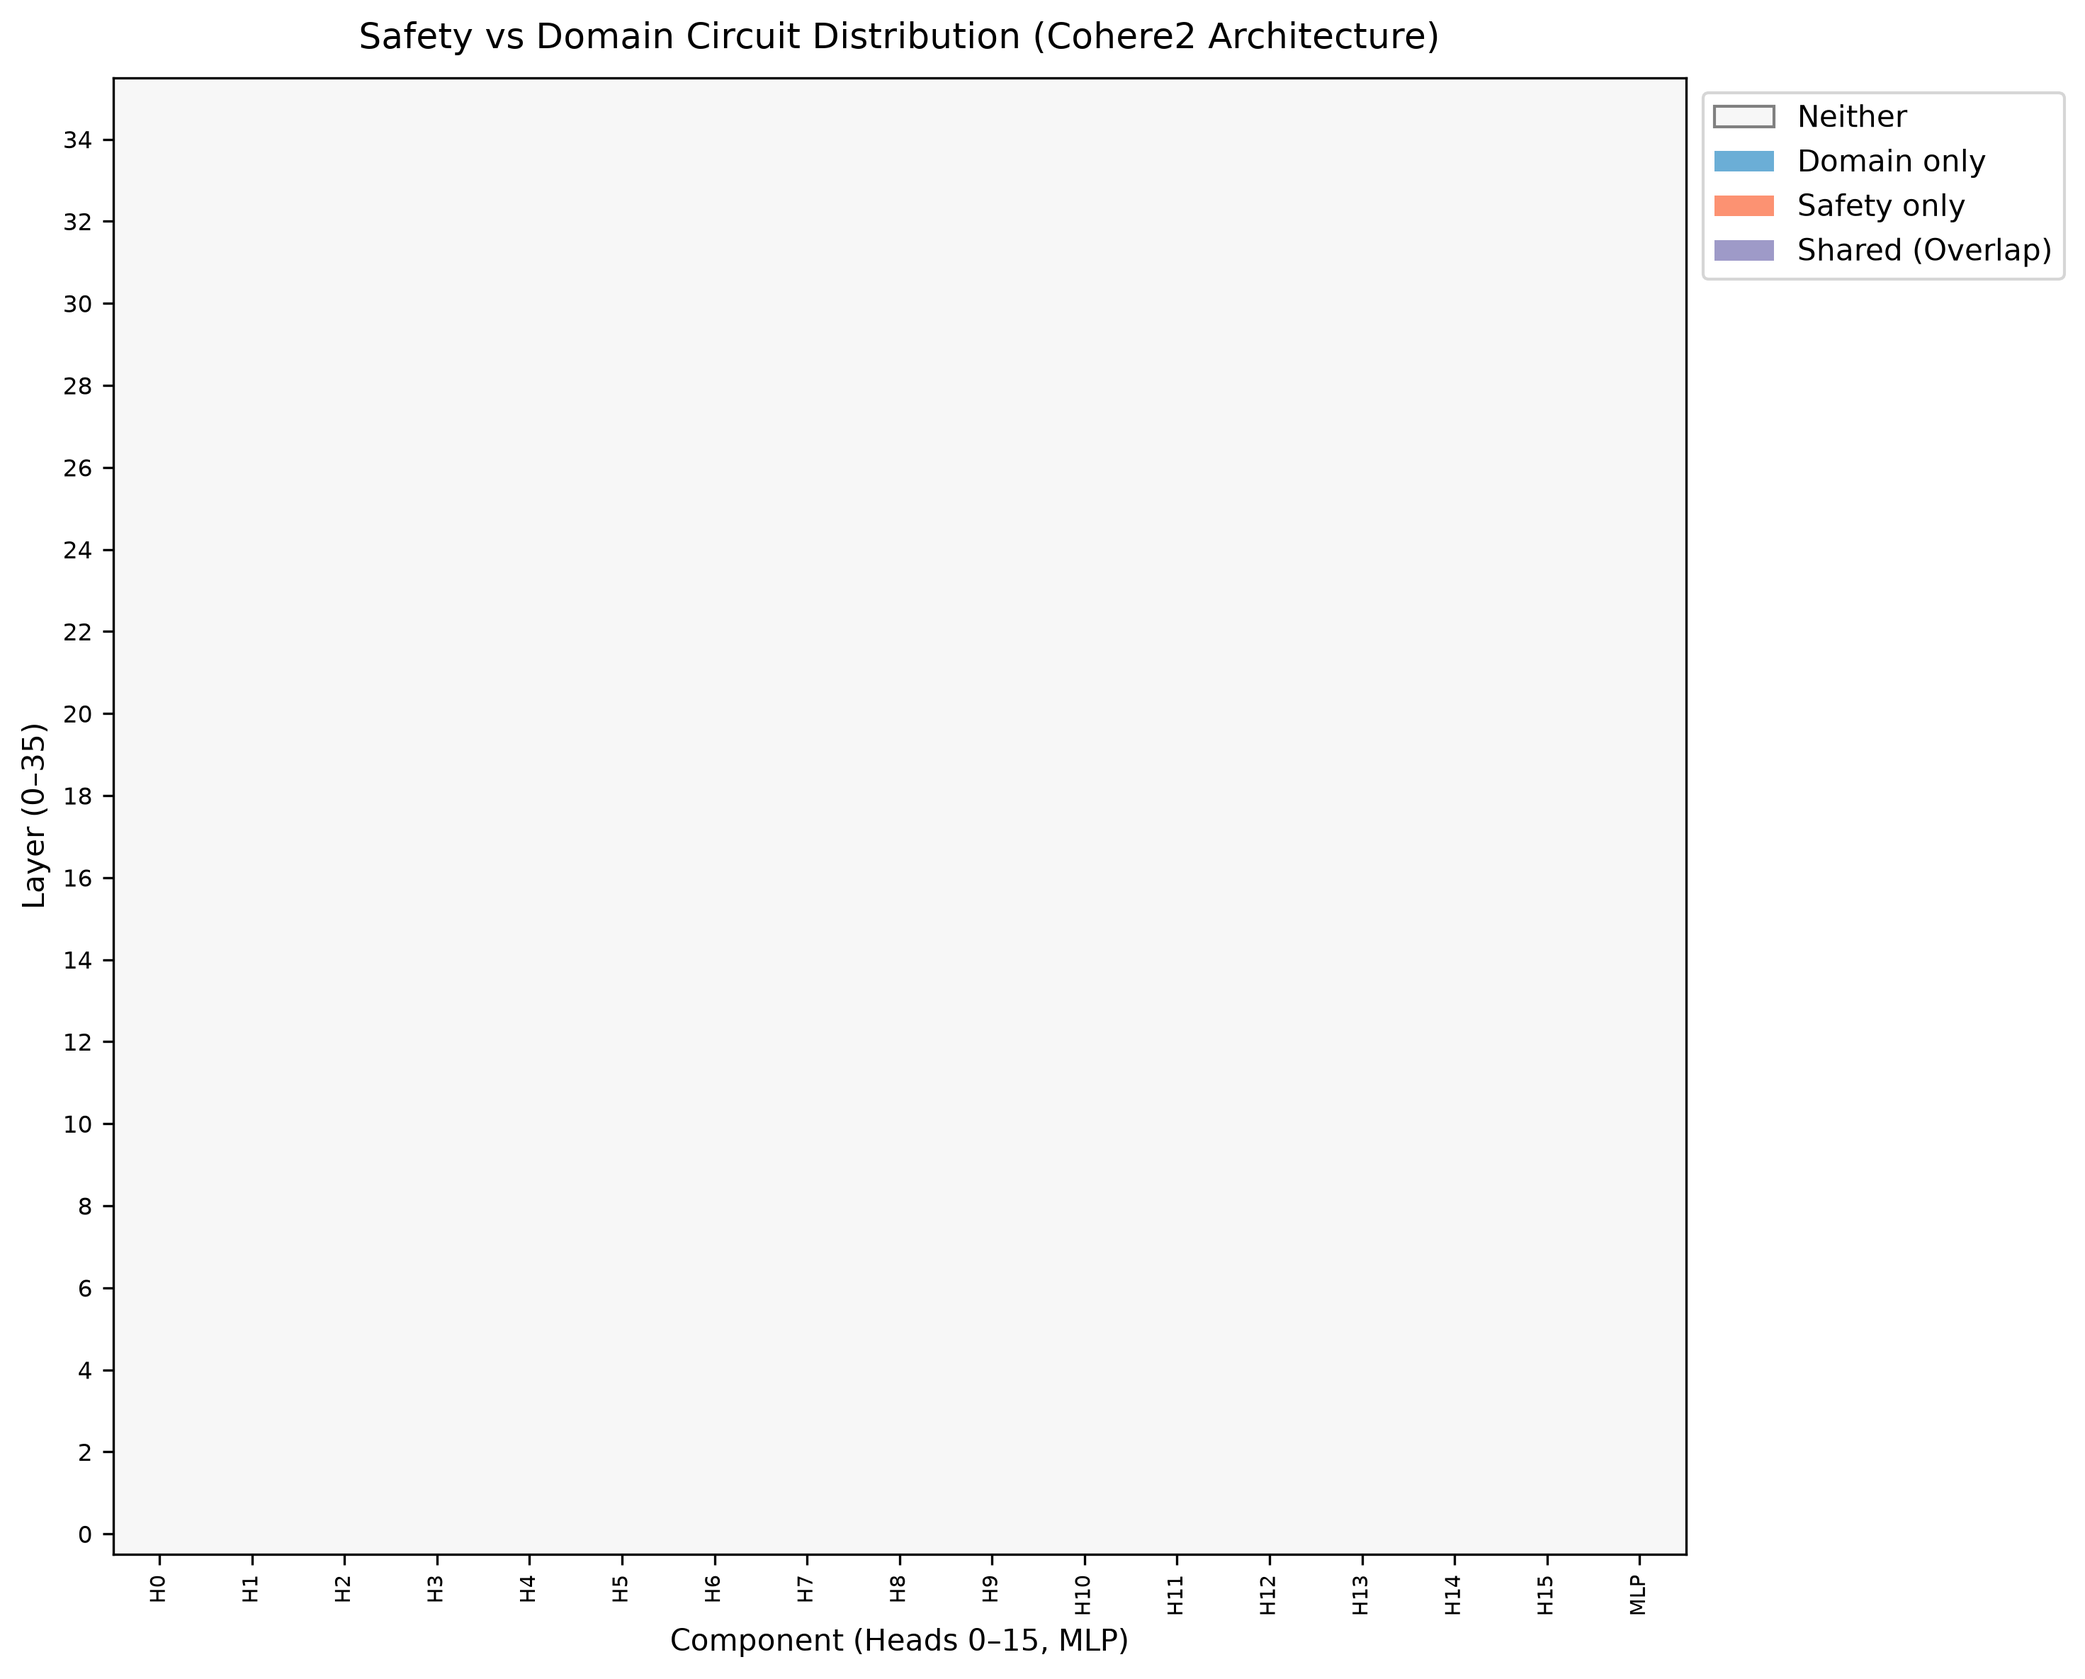
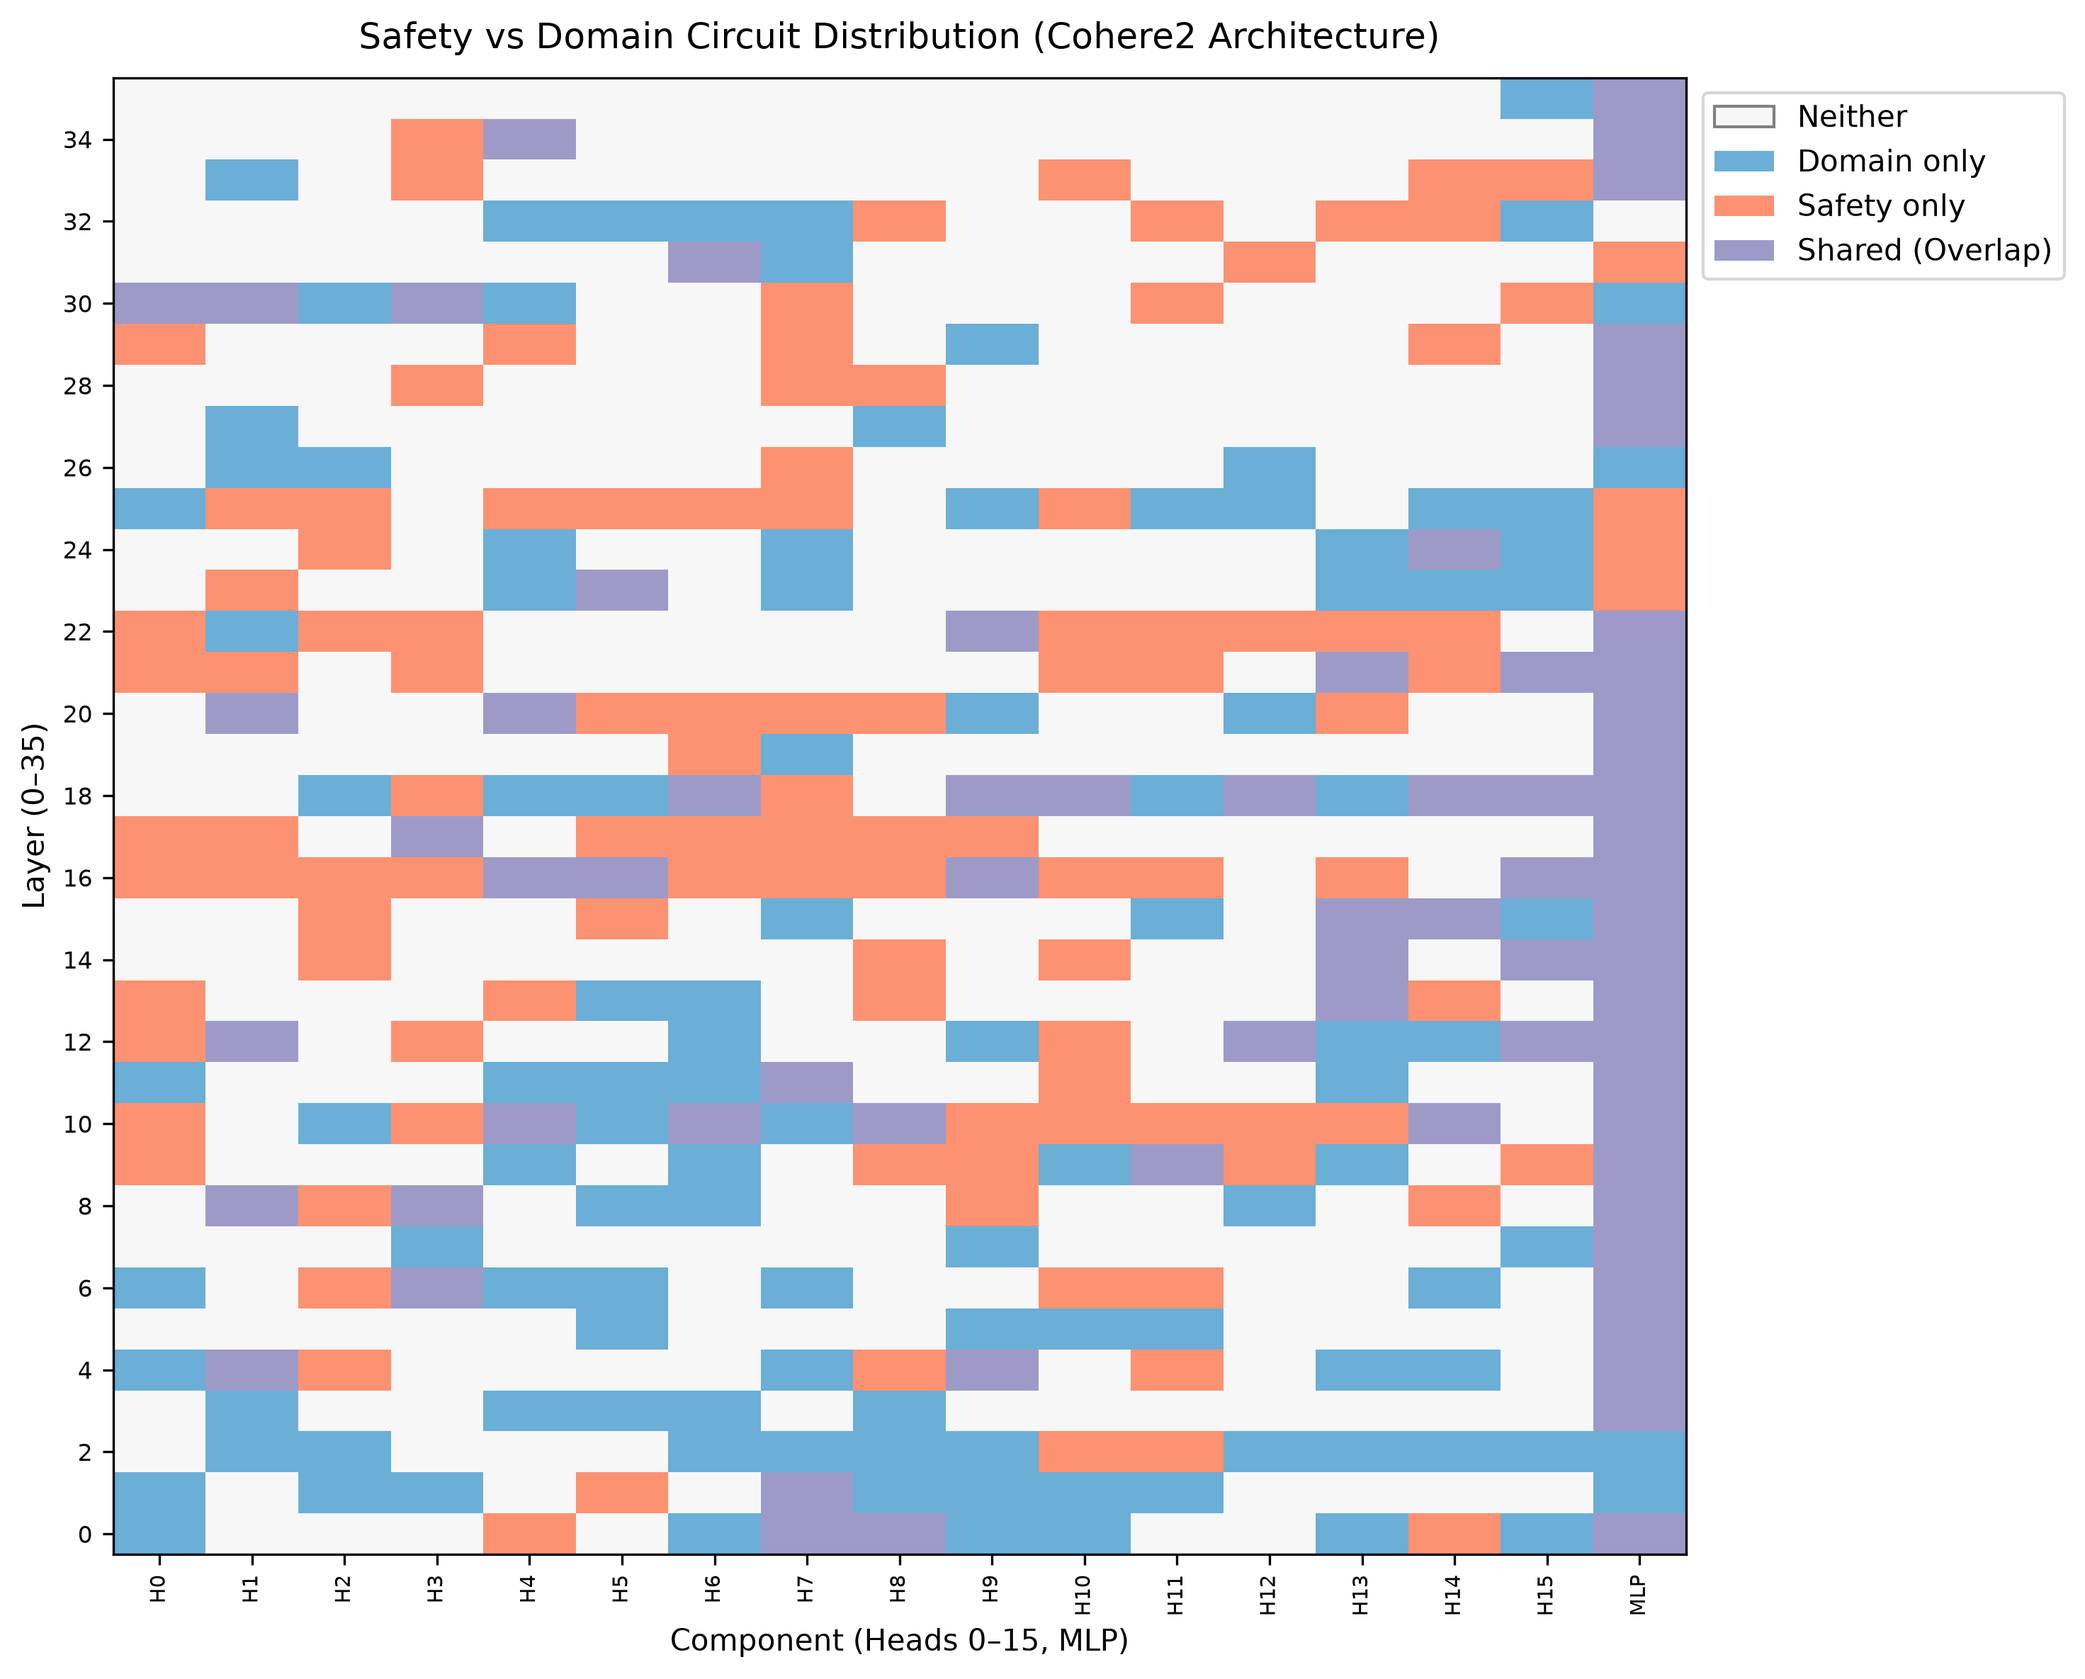
Fix empty overlap heatmap: plot preregistered membership, not raw attribution scores
The S9 heatmap consumed raw EAP-IG scores.json and treated score > 0 as
circuit membership. Attribution scores are positive for ALL 612 components,
so the membership matrix was constant (all 'shared') and matplotlib rendered
the constant imshow as a single flat colour - an all-'Neither' empty plot
with correct axes (spotted on the live Space).

- plots.py: new pure overlap_matrix(safety_members, domain_members) helper;
  plot_overlap_heatmap now takes the preregistered selected sets (explicit
  vmin/vmax 0..3, nearest interpolation). Docstring documents why raw scores
  must never drive membership.
- pipeline.py: run_report feeds the heatmap the overlap.json selected sets
  (the same 184/184/72 the overlap table reports); raw-scores path removed.
- Regression test asserts matrix codes (safety-only/domain-only/shared/MLP).
- Bundle: PNG regenerated in place in results/s9/report-1794803399 (verified
  cell counts 72 shared / 112 safety-only / 112 domain-only / 316 neither =
  exactly the reported stats); manifest output hash refreshed; Space
  re-uploaded and byte-compared (sha256 identical). No reported number
  changed.

diff --git a/src/circuitgraft/report/plots.py b/src/circuitgraft/report/plots.py
@@ -9,8 +9,12 @@ Produces publication-quality plots:
 from __future__ import annotations
 
 import logging
+from collections.abc import Iterable
 from pathlib import Path
-from typing import Any
+from typing import TYPE_CHECKING, Any
+
+if TYPE_CHECKING:
+    import numpy as np
 
 logger = logging.getLogger(__name__)
 
@@ -120,34 +124,30 @@ def plot_pareto_frontier(
     return output_path
 
 
-def plot_overlap_heatmap(
-    safety_scores: dict[str, float],
-    domain_scores: dict[str, float],
-    output_path: str | Path,
+def overlap_matrix(
+    safety_members: Iterable[str],
+    domain_members: Iterable[str],
     n_layers: int = 36,
     n_heads: int = 16,
-) -> Path | None:
-    """Generate a layer-by-component heatmap of circuit overlap."""
-    if not _can_plot():
-        return None
+) -> np.ndarray:
+    """Build the layer × component membership matrix.
 
-    import matplotlib.pyplot as plt
+    Rows are layers ``0..n_layers-1``, columns are heads ``0..n_heads-1`` plus
+    the MLP column at index ``n_heads``. Values: 0 = neither circuit, 1 =
+    domain only, 2 = safety only, 3 = shared (overlap).
+
+    Membership must come from the **selected** component sets (the
+    preregistered top-fraction selection recorded in ``overlap.json``), never
+    from raw attribution scores: EAP-IG scores are positive for *every*
+    component in the vocabulary, so a ``score > 0`` test marks all 612 cells
+    as selected and the matrix degenerates to a constant.
+    """
     import numpy as np
 
-    output_path = Path(output_path)
-    output_path.parent.mkdir(parents=True, exist_ok=True)
-
-    # Matrix: rows = layers (0..35), cols = heads (0..15) + MLP (16)
-    # Value code: 0 = none, 1 = domain only, 2 = safety only, 3 = both (overlap)
     matrix = np.zeros((n_layers, n_heads + 1), dtype=int)
-
-    all_keys = set(safety_scores) | set(domain_scores)
-    for key in all_keys:
-        in_s = key in safety_scores and safety_scores[key] > 0
-        in_d = key in domain_scores and domain_scores[key] > 0
-        if not (in_s or in_d):
-            continue
-
+    safety = set(safety_members)
+    domain = set(domain_members)
+    for key in safety | domain:
         parts = key.split(".")
         if len(parts) != 2:
             continue
@@ -158,8 +158,7 @@ def plot_overlap_heatmap(
 
         if parts[1].startswith("H"):
             try:
-                head = int(parts[1][1:])
-                col = head
+                col = int(parts[1][1:])
             except ValueError:
                 continue
         elif parts[1] == "MLP":
@@ -168,21 +167,56 @@ def plot_overlap_heatmap(
             continue
 
         if 0 <= layer < n_layers and 0 <= col <= n_heads:
+            in_s = key in safety
+            in_d = key in domain
             if in_s and in_d:
                 matrix[layer, col] = 3
             elif in_s:
                 matrix[layer, col] = 2
             elif in_d:
                 matrix[layer, col] = 1
+    return matrix
+
+
+def plot_overlap_heatmap(
+    safety_members: Iterable[str],
+    domain_members: Iterable[str],
+    output_path: str | Path,
+    n_layers: int = 36,
+    n_heads: int = 16,
+) -> Path | None:
+    """Generate a layer-by-component heatmap of circuit overlap.
+
+    ``safety_members`` / ``domain_members`` are the *selected* component names
+    (``"L3.H9"``, ``"L0.MLP"``) from the discovery stage's preregistered
+    selection — the same sets the overlap table reports.
+    """
+    if not _can_plot():
+        return None
+
+    import matplotlib.pyplot as plt
+    from matplotlib.colors import ListedColormap
+    from matplotlib.patches import Patch
+
+    output_path = Path(output_path)
+    output_path.parent.mkdir(parents=True, exist_ok=True)
+
+    matrix = overlap_matrix(safety_members, domain_members, n_layers, n_heads)
 
     fig, ax = plt.subplots(figsize=(10, 8), dpi=300)
 
     # Custom colormap: 0: white/lightgray, 1: blue (domain), 2: red (safety), 3: purple (overlap)
-    from matplotlib.colors import ListedColormap
-
     cmap = ListedColormap(["#f7f7f7", "#6baed6", "#fc9272", "#9e9ac8"])
 
-    ax.imshow(matrix, aspect="auto", cmap=cmap, origin="lower")
+    ax.imshow(
+        matrix,
+        aspect="auto",
+        cmap=cmap,
+        origin="lower",
+        vmin=0,
+        vmax=3,
+        interpolation="nearest",
+    )
 
     ax.set_title("Safety vs Domain Circuit Distribution (Cohere2 Architecture)", fontsize=12, pad=10)
     ax.set_xlabel("Component (Heads 0–15, MLP)", fontsize=10)
@@ -196,8 +230,6 @@ def plot_overlap_heatmap(
     ax.set_yticklabels(range(0, n_layers, 2), fontsize=8)
 
     # Legend
-    from matplotlib.patches import Patch
-
     legend_elements = [
         Patch(facecolor="#f7f7f7", edgecolor="gray", label="Neither"),
         Patch(facecolor="#6baed6", label="Domain only"),

diff --git a/src/circuitgraft/report/pipeline.py b/src/circuitgraft/report/pipeline.py
@@ -21,7 +21,6 @@ from datetime import UTC, datetime
 from pathlib import Path
 from typing import Any
 
-from circuitgraft.discover.overlap import read_score_payload
 from circuitgraft.registry import (
     REPO_ROOT,
     dump_json,
@@ -159,14 +158,22 @@ def _find_overlap(
     return {}, None, None
 
 
-def _find_scores(discover_dir: Path | None) -> tuple[dict[str, float], dict[str, float]]:
-    if discover_dir is None:
-        return {}, {}
-    safety_path = discover_dir / "safety" / "scores.json"
-    domain_path = discover_dir / "domain" / "scores.json"
-    safety = read_score_payload(safety_path) if safety_path.exists() else {}
-    domain = read_score_payload(domain_path) if domain_path.exists() else {}
-    return safety, domain
+def _selected_members(
+    overlap_data: dict[str, Any],
+) -> tuple[list[str], list[str]]:
+    """Extract the preregistered selected component sets from the overlap report.
+
+    The heatmap must plot *membership*, not attribution scores: EAP-IG scores
+    are positive for every component in the vocabulary, so a ``score > 0``
+    test would mark all 612 components as selected. ``overlap.json`` carries
+    the finalized top-fraction sets (184 / 184 / 72 at k = 0.3) — the same
+    sets the overlap table reports.
+    """
+    safety = overlap_data.get("safety") or {}
+    domain = overlap_data.get("domain") or {}
+    safety_members = [str(item) for item in (safety.get("components") or [])]
+    domain_members = [str(item) for item in (domain.get("components") or [])]
+    return safety_members, domain_members
 
 
 def _post_eval_hrr(document: dict[str, Any]) -> Any:
@@ -378,13 +385,13 @@ def run_report(
             reasons.append(f"eval summary is {eval_data['status']}")
         reasons.extend(str(reason) for reason in eval_data.get("partial_reasons", []))
 
-    # 2. Discovery overlap and the score maps used by the heatmap.
-    overlap_data, overlap_path, discover_dir = _find_overlap(res_dir, root)
+    # 2. Discovery overlap; the heatmap plots the preregistered selected sets.
+    overlap_data, overlap_path, _discover_dir = _find_overlap(res_dir, root)
     if overlap_path is None:
         reasons.append("no S4 discovery overlap report found (run `cg discover`)")
     else:
         sources.append(overlap_path)
-    safety_scores, domain_scores = _find_scores(discover_dir)
+    safety_members, domain_members = _selected_members(overlap_data)
 
     # 3. Attack runs; combine with clean HRR from the eval summary.
     attack_data, attack_sources = _collect_attack_stats(res_dir, root)
@@ -408,8 +415,8 @@ def run_report(
     plot_pareto_frontier(eval_data, pareto_png)
 
     heatmap_png = out_dir / "circuit_overlap_heatmap.png"
-    if safety_scores or domain_scores:
-        plot_overlap_heatmap(safety_scores, domain_scores, heatmap_png)
+    if safety_members or domain_members:
+        plot_overlap_heatmap(safety_members, domain_members, heatmap_png)
 
     decay_png = out_dir / "attack_decay.png"
     if attack_data.get("harmful_ft_decay"):

diff --git a/tests/test_report.py b/tests/test_report.py
@@ -319,11 +319,26 @@ def test_plots(tmp_path: Path) -> None:
         assert pareto_path.exists()
 
     heatmap_path = tmp_path / "heatmap.png"
-    s_scores = {"L0.H1": 0.5, "L1.MLP": 0.8}
-    d_scores = {"L1.MLP": 0.6, "L2.H3": 0.3}
-    result_hm = plot_overlap_heatmap(s_scores, d_scores, heatmap_path, n_layers=4, n_heads=4)
+    safety_members = ["L0.H1", "L1.MLP", "L2.H0"]
+    domain_members = ["L1.MLP", "L2.H3", "L3.H2"]
+    result_hm = plot_overlap_heatmap(safety_members, domain_members, heatmap_path, n_layers=4, n_heads=4)
     if result_hm is not None:
         assert heatmap_path.exists()
+
+    # Regression: the heatmap must encode *membership* from the preregistered
+    # selection, not raw attribution scores (EAP-IG scores are positive for
+    # every component, which previously degenerated the matrix to a constant
+    # and rendered an all-"Neither" plot).
+    from circuitgraft.report.plots import overlap_matrix
+
+    matrix = overlap_matrix(safety_members, domain_members, n_layers=4, n_heads=4)
+    assert matrix.shape == (4, 5)
+    assert matrix[0, 1] == 2  # safety only
+    assert matrix[1, 4] == 3  # shared (MLP column = n_heads)
+    assert matrix[2, 0] == 2  # safety only
+    assert matrix[2, 3] == 1  # domain only
+    assert matrix[3, 2] == 1  # domain only
+    assert matrix.sum() == 2 + 3 + 2 + 1 + 1
 
     decay_path = tmp_path / "decay.png"
     attack_res = {

diff --git a/src/circuitgraft/report/__init__.py b/src/circuitgraft/report/__init__.py
@@ -3,6 +3,7 @@
 from circuitgraft.report.inject_readme import inject_all, inject_section
 from circuitgraft.report.pipeline import run_report
 from circuitgraft.report.plots import (
+    overlap_matrix,
     plot_attack_decay,
     plot_overlap_heatmap,
     plot_pareto_frontier,
@@ -19,6 +20,7 @@ __all__ = [
     "generate_overlap_table",
     "inject_all",
     "inject_section",
+    "overlap_matrix",
     "plot_attack_decay",
     "plot_overlap_heatmap",
     "plot_pareto_frontier",

diff --git a/docs/EXPERIMENT_LOG.md b/docs/EXPERIMENT_LOG.md
@@ -1500,3 +1500,31 @@ require HF PRO (402), so the deployed version is a *static* Space —
 `space/index.html` renders the uploaded `report-1794803399` bundle client-side
 (verified in-browser 2026-11-16; the Gradio `space/app.py` variant remains for
 local/PRO use).
+
+### 2026-11-16 empty heatmap fix (display layer, no numbers changed)
+
+Spotted while demoing the live Space: `circuit_overlap_heatmap.png` rendered
+axes and legend but every cell was "Neither" (flat background). Root cause:
+the S9 plot function consumed the raw EAP-IG `scores.json` and treated
+`score > 0` as circuit membership — but attribution scores are **positive for
+all 612 components** in the vocabulary, so the membership matrix was constant
+(all "shared"), and matplotlib renders a constant `imshow` as a single flat
+colour. The correct membership source is the preregistered selection in
+`overlap.json` (the same 184 / 184 / 72 sets the overlap table reports).
+
+Fix: new pure helper `circuitgraft.report.plots.overlap_matrix` builds the
+matrix from the selected component sets; `plot_overlap_heatmap` plots
+membership, `run_report` feeds it the `overlap.json` sets, and the raw-scores
+path is gone. Regression test asserts the matrix codes (safety-only /
+domain-only / shared / MLP column). The bundle PNG was regenerated in place in
+`results/s9/report-1794803399/` (cell counts verified programmatically:
+72 shared, 112 safety-only, 112 domain-only, 316 neither — exactly the
+reported overlap stats), the manifest's output hash was refreshed, and the
+Space was re-uploaded and byte-compared (sha256 identical). No table, summary
+or article number changed.
+
+Housekeeping: the local `artifacts/discover/discover-6b120d61758287f6/` copy
+had been pruned by the cloud-import's local-dir bookkeeping; it was restored
+from the private cloud dataset via
+`import_cloud_artifacts.py --include "artifacts/discover/**"` (21 files,
+content-identical to the published `circuitgraft-circuits` dataset).
